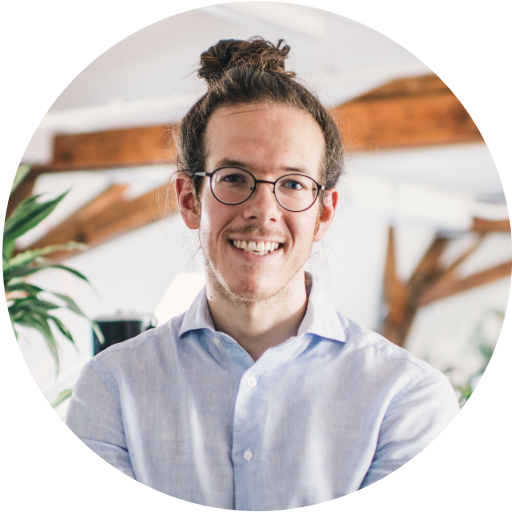
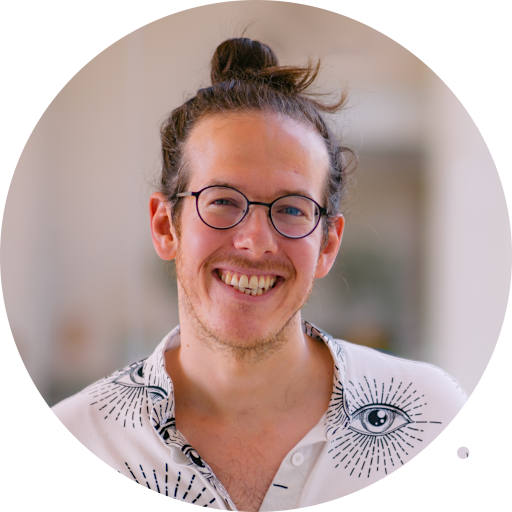
Add `cargo-expand` to required software + Update speaker details (#289)
* Update speaker photo

* Migrate speaker slide to `widget-speaker`

* Add `cargo-expand` to installation instructions

* Fix punctuation

diff --git a/syllabus/6-FRAME/6.5-Smart_Contracts/README.md b/syllabus/6-FRAME/6.5-Smart_Contracts/README.md
@@ -3,15 +3,16 @@
 This software must be installed on the presentation computer
 for the demos:
 
-- `cargo-contract`: Installation instructions can be found [here](https://github.com/paritytech/cargo-contract#installation)
+- `cargo-contract`: Installation instructions can be found [here](https://github.com/paritytech/cargo-contract#installation).
 - `binaryen`: The installation instructions above should have covered this if you have a mainstream os.
 - `wabt`: The installation instructions above should have covered this if you have a mainstream os.
-- `bat`: [Installation instructions](https://github.com/sharkdp/bat#installation)
-- `substrate-contracts-node`: [Download here](https://github.com/paritytech/substrate-contracts-node/releases)
-- `jq`: [Installation instructions](https://stedolan.github.io/jq/download)
-- Clone ink! repository : `git clone https://github.com/paritytech/ink.git`
+- `bat`: [Installation instructions](https://github.com/sharkdp/bat#installation).
+- `substrate-contracts-node`: [Download here](https://github.com/paritytech/substrate-contracts-node/releases).
+- `jq`: [Installation instructions](https://stedolan.github.io/jq/download).
+- `cargo-expand`: [Installation instructions](https://github.com/dtolnay/cargo-expand#installation).
+- Clone ink! repository : `git clone https://github.com/paritytech/ink.git`.
 
-If everything is installed you can test that all necessary stuff is there by executing:
+If everything is installed you can test that all necessary stuff is there by checking this:
 
 ```
 cd ink/examples/flipper/ && cargo +nightly contract build && cat target/ink/flipper.contract | jq . | bat
@@ -19,13 +20,19 @@ cd ink/examples/flipper/ && cargo +nightly contract build && cat target/ink/flip
 
 You should see a JSON file displayed.
 
-Please then check that this command also works:
+Please then check that this command also works in the `ink/flipper` folder:
 
 ```
 wasm2wat target/ink/flipper.wasm | bat
 ```
 
 This should display a file starting with `(module`.
+
+Please then check that this command works too in the `ink/flipper` folder:
+
+```
+cargo expand
+```
 
 Please let us know in which folder on the presentation computer
 the `ink` repository is cloned to.

diff --git a/syllabus/6-FRAME/6.5-Smart_Contracts/6.5-3-Ink_Slides.md b/syllabus/6-FRAME/6.5-Smart_Contracts/6.5-3-Ink_Slides.md
@@ -6,31 +6,13 @@ instructors: ["some one", "another gal"]
 teaching-assistants: ["some one", "another gal"]
 ---
 
-# <img style="height: 400px;" src="../../../assets/img/6-FRAME/6.5-Smart_Contracts/ink/ink-logo-with-squid-white.svg" alt="ink!" />
+# <img style="height: 300px;" src="../../../assets/img/6-FRAME/6.5-Smart_Contracts/ink/ink-logo-with-squid-white.svg" alt="ink!" />
 
 ### _Module 6, Lecture 5.3_
 
 ---
 
-<div class="flex-container">
-<div class="left text-right"> <!-- Gotcha: You Need an empty line to render MD inside <div> -->
-
-<img style="width: 550px; float:right; margin-right:30px" src="../../../assets/img/0-Shared/people/michi.png"/>
-
-</div>
-<div style="margin-top:130px" class="right text-left"> <!-- Gotcha: You Need an empty line to render MD inside <div> -->
-
-### Michi
-
-<!-- .element: style="margin-bottom: 0px;" -->
-
-- Core Developer @ Parity Technologies
-- Working on ink!
-
-_[GitHub](https://github.com/cmichi) // [Email](mailto:michi@parity.io)_
-
-</div>
-</div>
+<widget-speaker name="Michi" position="ink! Team Lead @ Parity " image="/assets/img/0-Shared/people/michi.png" github="cmichi" matrix="michi:matrix.parity.io"></widget-speaker>
 
 ---
 
